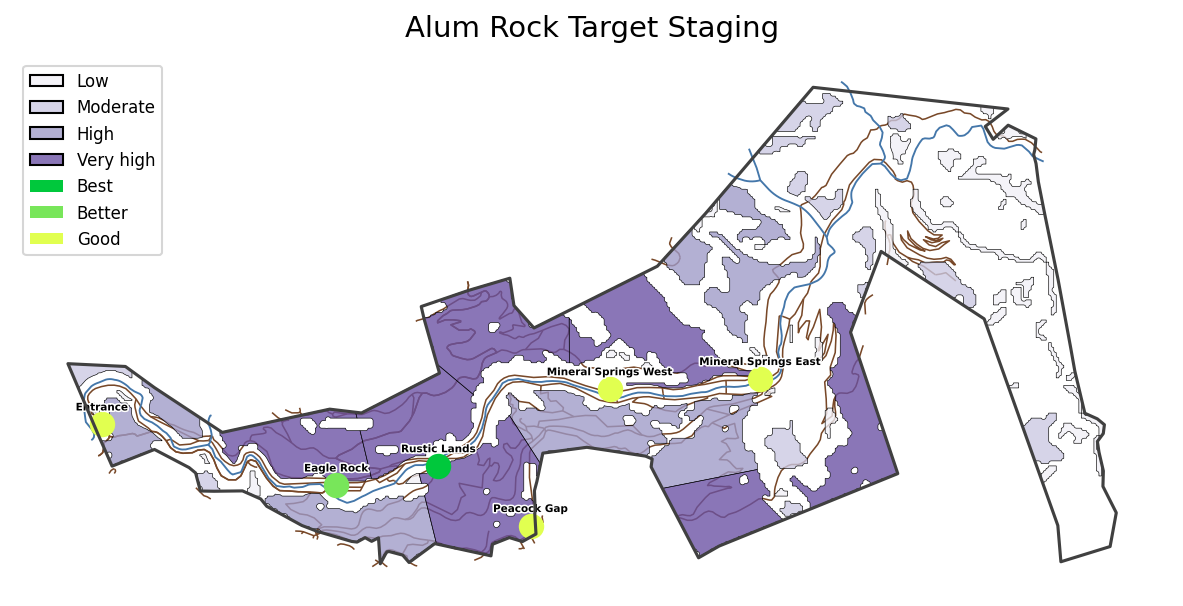
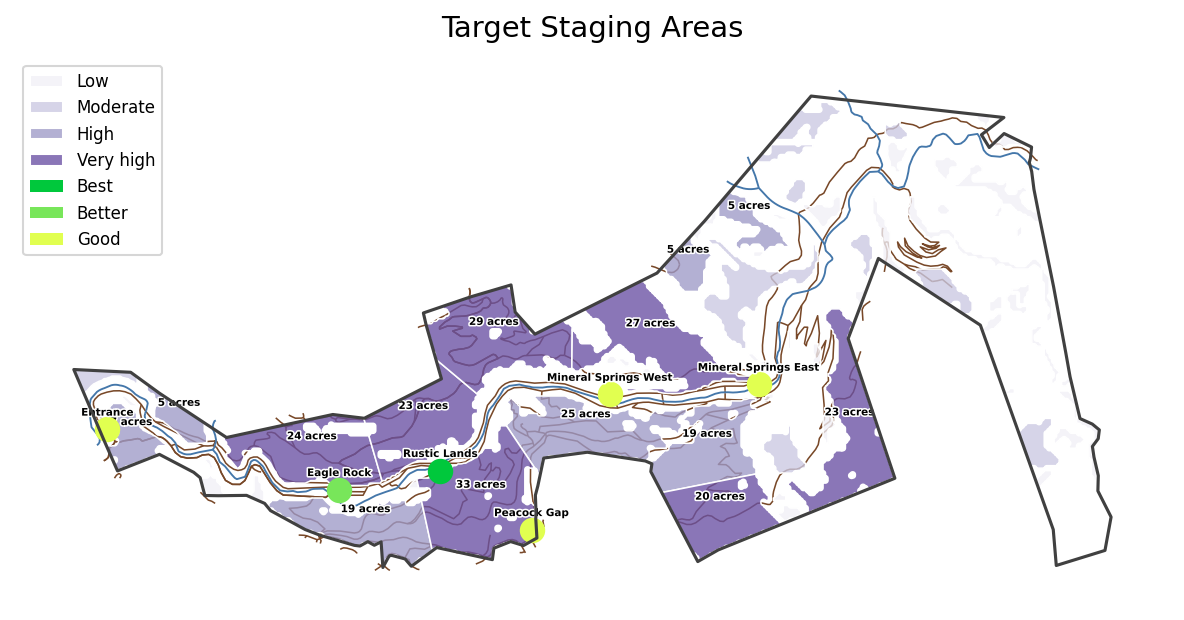
styling updates
add acreage labels
add suitability scenario descriptions
update target zones border for visibility: white, thicker line

diff --git a/projects/goats/main.py b/projects/goats/main.py
@@ -78,7 +78,7 @@ map_park = Map(
 """
 map_slope = Map(
     id="slope",
-    title="Alum Rock Park: Slopes",
+    title="Slopes",
     crs=CRS,
     extent=EXTENT,
     layers=[
@@ -94,7 +94,7 @@ map_slope = Map(
 3: Vegetation classification; lifeform classes grouped into 6 classes, plus developed
 """
 map_veg = Map(
-    title="Alum Rock: Vegetation",
+    title="Vegetation",
     id="vegetation",
     crs=CRS,
     extent=EXTENT,
@@ -111,7 +111,7 @@ map_veg = Map(
 4: Priority (road and trail edges, developed area) and exclusion (riparian buffer) zones
 """
 map_zones = Map(
-    title="Alum Rock Goat Priority and Exclusion Zones",
+    title="Priority and Exclusion Zones",
     id="zones",
     crs=CRS,
     extent=EXTENT,
@@ -131,7 +131,7 @@ map_zones = Map(
 5: Weighted overlay for suitability from priority/exclusion zones, slope, and vegetation
 """
 map_suitability = Map(
-    title="Alum Rock Goat Grazing Suitability",
+    title="Goat Grazing Suitability",
     id="suitability",
     crs=CRS,
     extent=EXTENT,
@@ -150,7 +150,7 @@ map_suitability = Map(
 6: Group and smooth suitability outputs into target zones
 """
 map_target_zones = Map(
-    title="Alum Rock Goat Grazing Target Zones",
+    title="Goat Grazing Target Zones",
     id="patches",
     crs=CRS,
     extent=EXTENT,
@@ -169,7 +169,7 @@ map_target_zones = Map(
 7: Prioritized staging areas based on access to target zones
 """
 map_ranked_staging = Map(
-    title="Alum Rock Target Staging",
+    title="Target Staging Areas",
     id="targets_cluster",
     crs=CRS,
     extent=EXTENT,
@@ -197,7 +197,7 @@ EXTENT_DETAIL = Extent(
 ).to_crs(CRS)
 
 map_detail = Map(
-    title="Alum Rock Rustic Lands area",
+    title="Rustic Lands Staging area",
     id="detail",
     crs=CRS,
     extent=EXTENT_DETAIL,

diff --git a/projects/goats/layers/target_zones.py b/projects/goats/layers/target_zones.py
@@ -31,6 +31,7 @@ from shapely.ops import voronoi_diagram
 
 from alidade.models import (
     BoundLayer,
+    Label,
     Layer,
     PythonAction,
     Rule,
@@ -41,7 +42,7 @@ from alidade.models import (
 from projects.goats.layers.exclude_water_vegetation import exclude_water_vegetation
 from projects.goats.layers.park_boundary import park_boundary
 from projects.goats.layers.suitability import suitability
-from projects.goats.palette import BLACK, SUITABILITY
+from projects.goats.palette import SUITABILITY, WHITE
 from projects.goats.util import CRS, clip_park
 
 # about 1/8 acre
@@ -210,6 +211,12 @@ def build_patches(layer: BoundLayer) -> None:
         label = "Very high" if int(row["patch_class"]) == 4 else "High     "
         print(f"    P{int(row['patch_id']):03d}  {label}  {row['size_acres']:.2f} ac")
 
+    # blank label on Low/Moderate patches suppresses rendering
+    gdf["acres_label"] = ""
+    gdf.loc[high.index, "acres_label"] = (
+        high["size_acres"].round().astype(int).astype(str) + " acres"
+    )
+
     gdf.to_file(layer.path, driver="GPKG")
 
 
@@ -225,8 +232,8 @@ _symbols = [
             SimpleFill(
                 color=color,
                 style="solid",
-                outline_color=BLACK,
-                outline_width=0.2,
+                outline_color=WHITE,
+                outline_width=0.5,
             )
         ],
     )
@@ -247,4 +254,5 @@ target_zones = Layer(
         symbols=_symbols,
     ),
     action=PythonAction(fn=build_patches),
+    label=Label(field="acres_label", halo_color=WHITE),
 )

diff --git a/projects/goats/story/README.md b/projects/goats/story/README.md
@@ -94,12 +94,26 @@ riparian vegetation. Goats browse everything within reach; without this setback,
 Each location in the park was scored by combining four factors into a single suitability
 score. Each factor carries equal weight:
 
-- **Slope (25%)** — steeper terrain scores higher, since those slopes can't be mowed
-- **Vegetation type (25%)** — shrubland and chaparral score highest
-- **Distance to roads and trails (25%)** — within 30 feet of an access route scores higher
-- **Distance to developed zone (25%)** — within 100 feet of a high-use area scores higher
+- **Slope (33%)** — steeper terrain scores higher, since those slopes can't be mowed
+- **Vegetation type (33%)** — shrubland and chaparral score highest
+- **Distance to developed zone, roads and trails (33%)** — within 30 feet of an access route or 100 feet of a high-use area scores higher
 
 Any location in an exclusion zone (riparian buffer, very steep slopes, or developed land) is zeroed out regardless of other scores. The result is a continuous surface where darker purple indicates the highest-priority locations for fuel reduction. High-value areas concentrate in the central and western portions of the park, where shrubland vegetation meets the main trail network on accessible slopes.
+
+The relative weight given to each factor can be adjusted to match different program priorities, and the analysis is straightforward to re-run with different weights. Five weighting schemes were tested, varying the balance between priority access, slope, and vegetation:
+
+- **33% priority area, 33% slope, 33% vegetation** — equal weighting
+- **25% priority area, 25% slope, 50% vegetation** — vegetation emphasized
+- **25% priority area, 50% slope, 25% vegetation** — slope emphasized
+- **40% priority area, 30% slope, 30% vegetation** — priority access emphasized
+- **10% priority area, 40% slope, 40% vegetation** — minor priority weighting
+
+All five weightings identified the same high-priority grazing zones, confirming that the results are robust and not sensitive to the specific weighting chosen.
+
+| | |
+|---|---|
+| ![25% priority area, 25% slope, 50% vegetation](map_suitability_25_25_50.png)<br>25% priority area, 25% slope, 50% vegetation — vegetation emphasized | ![25% priority area, 50% slope, 25% vegetation](map_suitability_25_50_25.png)<br>25% priority area, 50% slope, 25% vegetation — slope emphasized |
+| ![40% priority area, 30% slope, 30% vegetation](map_suitability_40_30_30.png)<br>40% priority area, 30% slope, 30% vegetation — priority access emphasized | ![10% priority area, 40% slope, 40% vegetation](map_suitability_10_40_40.png)<br>10% priority area, 40% slope, 40% vegetation — minor priority weighting |
 
 ### Recommended Grazing Zones Overview
 

diff --git a/projects/goats/workflow.md b/projects/goats/workflow.md
@@ -392,6 +392,25 @@ rename, not a scoring change).
 
 ---
 
+## Step 22 — Acreage labels on High/Very high patches
+
+Added an `acres_label` column to `grazeable_patches`: `"<rounded acres> acres"` for
+patches with `patch_class >= 3` (High/Very high), blank for Low/Moderate. Blank
+strings suppress QGIS simple labeling per-feature, so only the two top classes
+get a label without needing a rule-based labeling setup. Wired up via
+`Label(field="acres_label", halo_color=WHITE)`, matching the pattern already used
+for staging area names.
+
+Patch outlines restyled from black (0.2 mm) to white (0.5 mm) so the new
+acreage labels stand out against the darker purple patch classes.
+
+**Files changed:**
+- `layers/target_zones.py` — `build_patches` adds `acres_label`;
+  `target_zones` layer gets `label=Label(field="acres_label", halo_color=WHITE)`;
+  `_symbols` outline changed from `BLACK`/0.2 to `WHITE`/0.5
+
+---
+
 ## Step 20 — Project → Map rename
 
 Renamed `Project` → `Map` and `BoundProject` → `BoundMap` throughout the
